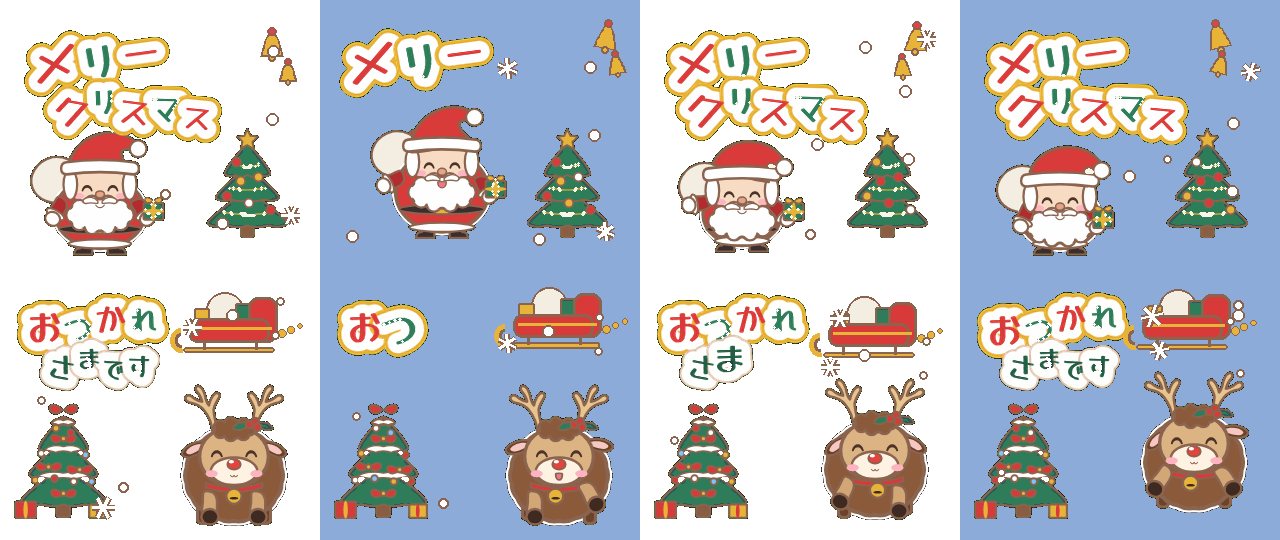
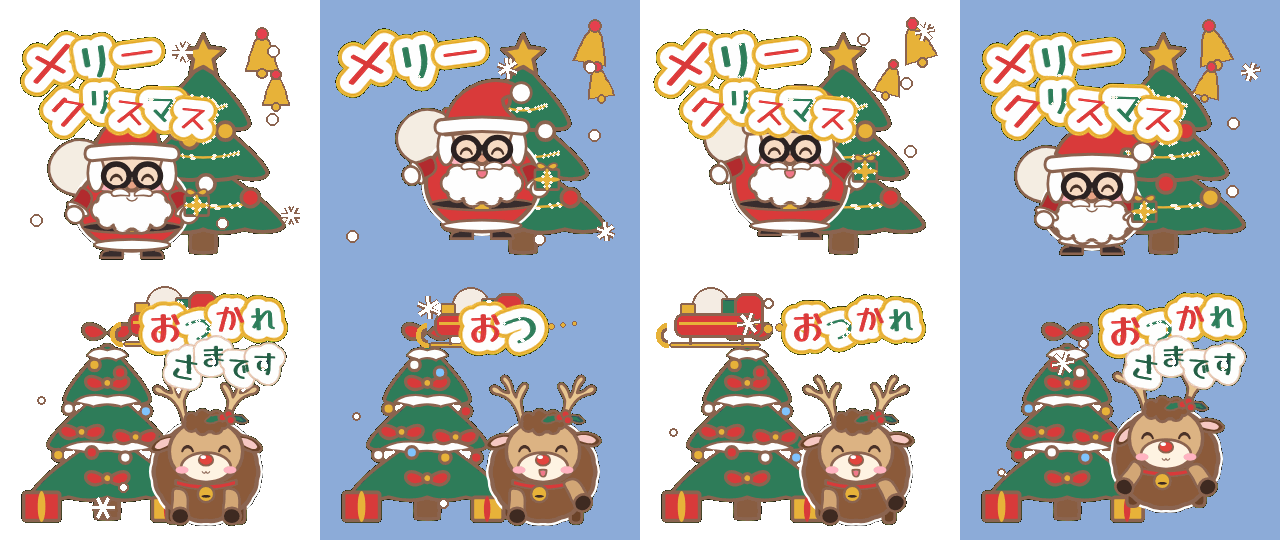
set04: サンタの眼鏡、大きなツリーを重ねた構図、ベルを大きく、そりが駆け抜ける
Claude-Session: https://claude.ai/code/session_01RfomAZL54wRevPjVr3cHPk

diff --git a/tools/xmas.py b/tools/xmas.py
@@ -303,6 +303,14 @@ def santa(c):
     for side, x0 in ((-1, 121), (1, 199)):  # もみあげ: 帽子のふちの下から、ひげへなめらかにつながる白い楕円
         put(c, f"BEARD0_hair{side}", WHITE, 2.4, 18, 40, x0 - 9 + fx, 160 + fy, soft.ellipse_d(18, 40))
     small_eyes(c, 0.86)
+    # 黒ぶちの丸い眼鏡(目のまわり。目は soften で 5px 下がるので、その分だけ下げて置く)
+    for side, key in ((-1, "P8"), (1, "P9")):
+        e = c[key]
+        ex, ey = e["left"] + e["w"] / 2, e["top"] + e["h"] / 2 + 5
+        put(c, f"P11z_glass{side}", "none", 3.2, 28, 26, ex - 14, ey - 13, soft.ellipse_d(28, 26), stroke="#2B2222")
+    gl, gr = c["P11z_glass-1"], c["P11z_glass1"]
+    put(c, "P11z_bridge", "none", 3.2, gr["left"] - gl["left"] - 28 + 4, 6, gl["left"] + 26, gl["top"] + 9,
+        "M1 5 C4 1 10 1 13 5", vw=14, vh=6, stroke="#2B2222")
     c["P12"]["left"] += 6
     c["P13"]["left"] -= 6
     # 鼻(目の間の少し下)
@@ -428,8 +436,8 @@ def draw_marks_x(layer, marks, ox, oy):
 
         def B(x0, y0, x1, y1):
             return (x + x0 * k, y + y0 * k, x + x1 * k, y + y1 * k)
-        for j in range(3):  # うしろ(右)に金の星くず
-            sx, sy, r = 40 + j * 7, 6 - j * 3, 3.2 - j * 0.6
+        for j in range(5):  # うしろ(右)に長い金の星くず(速さを出す)
+            sx, sy, r = 40 + j * 9, 6 - j * 1, 3.6 - j * 0.5
             d.ellipse(B(sx - r, sy - r, sx + r, sy + r), fill=GOLD, outline=soft.LINE)
         # すべり木: 金。前(左)は上へくるっと巻く
         d.rounded_rectangle(B(-36, 16, 34, 20), radius=2, fill=GOLD, outline=soft.LINE, width=2)
@@ -463,9 +471,9 @@ def bells_travel(i, av):
     """ベル2つ: ゆれながら、上の方を左から右へ跳ねて進む(その場でゆれるだけにしない)。"""
     # 文字の四角(av)にかからない右上だけで、跳ねながら左右に行き来する
     t = i / 11 * 2 * math.pi
-    x = 272 + 18 * math.sin(t)
+    x = 262 + 14 * math.sin(t)
     y = 34 - 10 * abs(math.sin(t * 2))
-    return [("bell", x, y, 14, 18 * math.sin(i * 1.3)), ("bell", x + 16 * math.cos(t), y + 30, 11, -18 * math.sin(i * 1.3))]
+    return [("bell", x, y + 4, 21, 18 * math.sin(i * 1.3)), ("bell", x + 20 * math.cos(t) - 6, y + 44, 17, -18 * math.sin(i * 1.3))]
 
 
 def both(*fs):
@@ -503,24 +511,33 @@ def bob(dy):
 
 
 # 01 サンタ: ツリーの方(右)から、跳ねながら左へ歩いてきて、止まって手をふる
-WALK01 = [(100, 253), (128, 250), (122, 244), (115, 250), (108, 244), (102, 250), (100, 253), (100, 253), (100, 253),
-          (100, 253), (100, 247), (100, 253)]
+WALK01 = [(132, 256), (168, 252), (162, 246), (160, 252), (150, 246), (140, 252), (132, 256), (132, 256), (132, 251),
+          (132, 252), (132, 250), (132, 256)]
+S01, S05 = 0.92, 0.92
+
+
+def tree_page(px, py, ph, anchor, scale, lights, style="ball"):
+    """ツリーを、スタンプの上の位置(左上 px,py・高さ ph)で置く(キャラの拡大・位置に左右されない)。"""
+    k = ph / 160 / scale
+    return tree(160 + (px - anchor[0]) / scale, 258 + (py - anchor[1]) / scale + 10 * k, k, lights, style)
 # 05 トナカイ: 右から走ってきて(体がはずむ)、止まって、ぴょんと跳ねる
 # 空を飛ぶ大きなそり: 右から左上へ、波打ちながら(文字の右側の空)。1コマ目は完成形の位置
-SLEIGH05 = [(230, 56)] + [(236 - k * 1.6, 56 - 5 * math.sin(k * 1.1)) for k in range(11)]  # 空をゆらゆら左へ
-RUN05 = [(234, 258), (240, 252), (239, 258), (238, 250), (236, 258), (235, 252), (234, 258), (234, 258), (234, 250),
-         (234, 245), (234, 252), (234, 258)]
+# そり: 右から左へ、空を一気に駆け抜ける(1コマ約45px)。駆け抜けたあとは消える。1コマ目は真ん中
+SLEIGH05 = [(170, 50)] + [(196 - k * 40, 62 - k * 5 - 6 * math.sin(k * 1.3)) for k in range(4)] + [None] * 7
+RUN05 = [(206, 258), (228, 252), (223, 258), (218, 250), (216, 258), (210, 252), (206, 258), (206, 258), (206, 250),
+         (206, 245), (206, 252), (206, 258)]
 STAMPS = {
     "01": make("xmas", [("メリー", 44, True), ("クリスマス", 32, True)], "B",
                lambda i: [POSE01[i], happy, P(**MOVE01[i]), santa,
-                          tree(300 - (WALK01[i][0] - 100) / 0.76, 104 - (WALK01[i][1] - 253) / 0.76, 0.9, i)],
+                          tree_page(120, 34, 222, WALK01[i], S01, i)],
                both(bells_travel, snowf(1)),
-               m=dict(scale=0.76, anchor=(100, 253)), x0=22),
-    "05": make("xmas", [("おつかれ", 34, True), ("さまです", 26, False)], "A",
+               m=dict(scale=S01, anchor=(132, 256)), x0=18),
+    "05": make("xmas", [("おつかれ", 33, True), ("さまです", 27, False)], "A",
                lambda i: [S, happy, (lambda c, d=BOB05[i]: inko.move(c, list(c), dy=d)), P(**MOVE05[i]), reindeer,
-                          tree(-90 - (RUN05[i][0] - 234) / 0.86, 118 - (RUN05[i][1] - 258) / 0.86, 0.86, i, style="snow")],
+                          tree_page(30, 46, 206, RUN05[i], S05, i, style="snow")],
                lambda i, av: winter.snow(5, 5, i, avoid=av)
-               + [("sleigh", SLEIGH05[i][0], SLEIGH05[i][1], 1.3)], m=dict(scale=0.86, anchor=(234, 258)), x0=16),
+               + ([("sleigh", SLEIGH05[i][0], SLEIGH05[i][1], 1.3)] if SLEIGH05[i] else []),
+               m=dict(scale=S05, anchor=(206, 258)), x0=138),
 }
 
 for name, path in (("01", WALK01), ("05", RUN05)):

diff --git a/docs/stamp_rules.md b/docs/stamp_rules.md
@@ -94,6 +94,8 @@ set01「ていねいインコ」で、ユーザーと品質チェックから受
 |---|---|---|
 | 3.7-1 | キャラをいつも右下に置かない。スタンプごとに、左・右・真ん中、大きさ、文字の位置(上・左・下・斜め)を変える。セット全体で同じ配置は2回まで | set04「全部同じ位置。バリエーション増やして」 |
 | 3.7-2 | 飾り(ベル・星など)は、その場でゆれるだけにしない。動く・跳ねる・落ちる・回るなど、移動もさせる | set04「ベルが同じ場所で動いているだけ」 |
+| 3.7-3 | 画面を4つに区切ったような構図(文字・キャラ・背景の物を別々のすみに置く)にしない。大きな背景の物(ツリーなど)をキャラの後ろに重ね、文字も少しかかってよいので、1枚の絵としてまとめる | set04「構図を四分の一にしないで。違和感がある」 |
+| 3.7-4 | 空を飛ぶ物(そりなど)は、ゆっくりゆらすより、数コマで画面を駆け抜けて消えるほうがよい | set04「そりの動きを早くして駆け抜ける感じ」 |
 
 ## 4. セリフ
 

diff --git a/work/set04/qa.md b/work/set04/qa.md
@@ -44,3 +44,10 @@
 - トナカイ: 走り出しの白いもやをやめた。目を上げて少し外へ(口元よりはっきり上)。空に大きな赤いそり(すべり木・袋・プレゼント・星くず)がゆらゆら飛ぶ。
 - ツリー: 2本とも電球の色がコマごとに入れかわって点滅。
 - 全コマ縁10px以上・規定 OK。白と水色の背景で確認。
+
+## 作り直し6(2026-11-05)
+
+- サンタに黒ぶちの丸い眼鏡(目と一緒に動く)。ベルを大きく(21px/17px)。
+- 構図: 4つのすみに分けるのをやめ、大きなツリー(高さ約220px)をキャラの後ろに重ね、文字も少しかかる1枚の絵にした。
+- そり: 4コマで右から左へ空を駆け抜けて消える(1コマ40px、長い星くず)。
+- 全コマ縁10px以上・規定 OK。白と水色の背景で確認。
